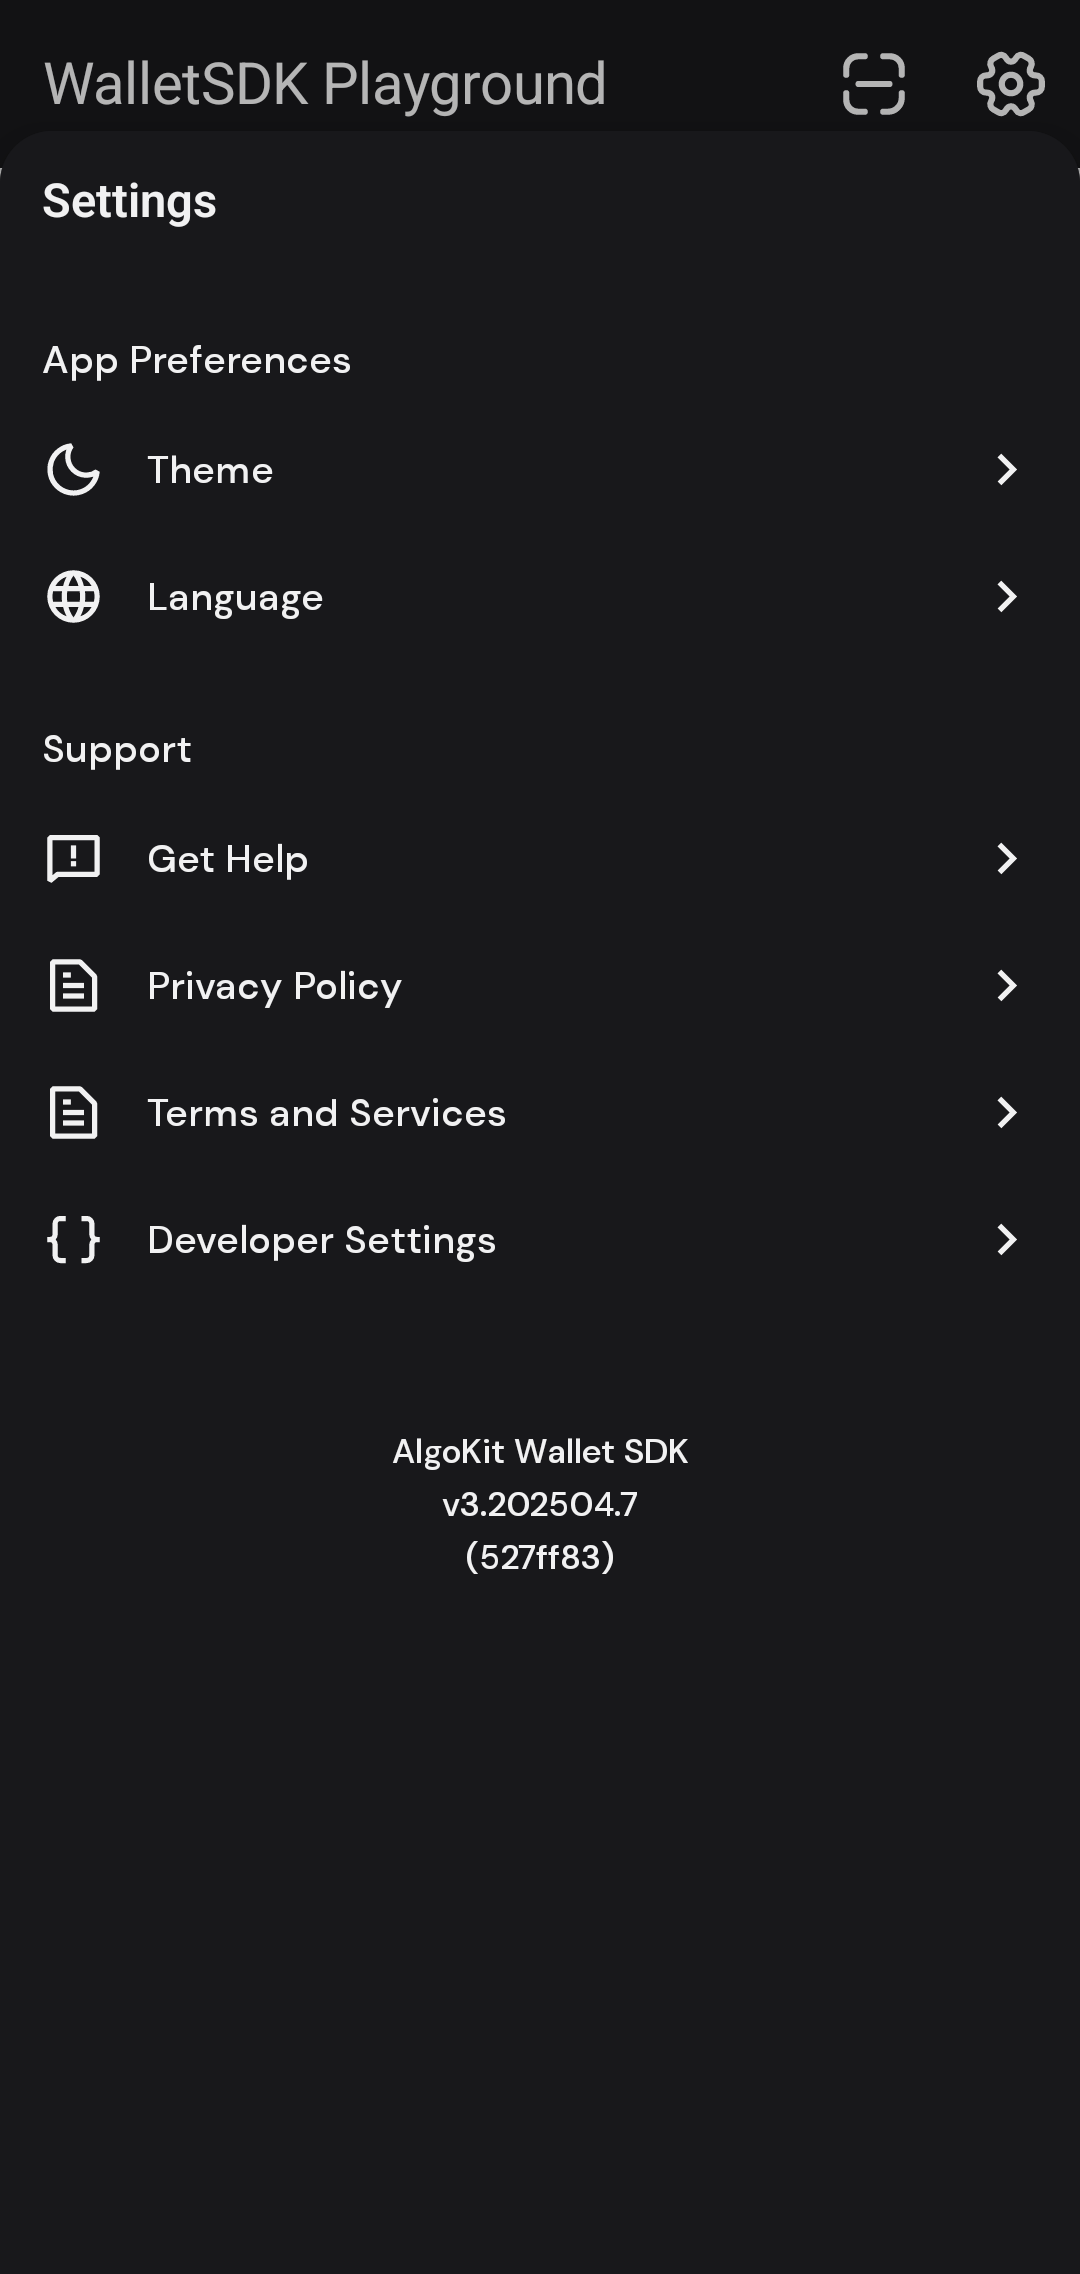
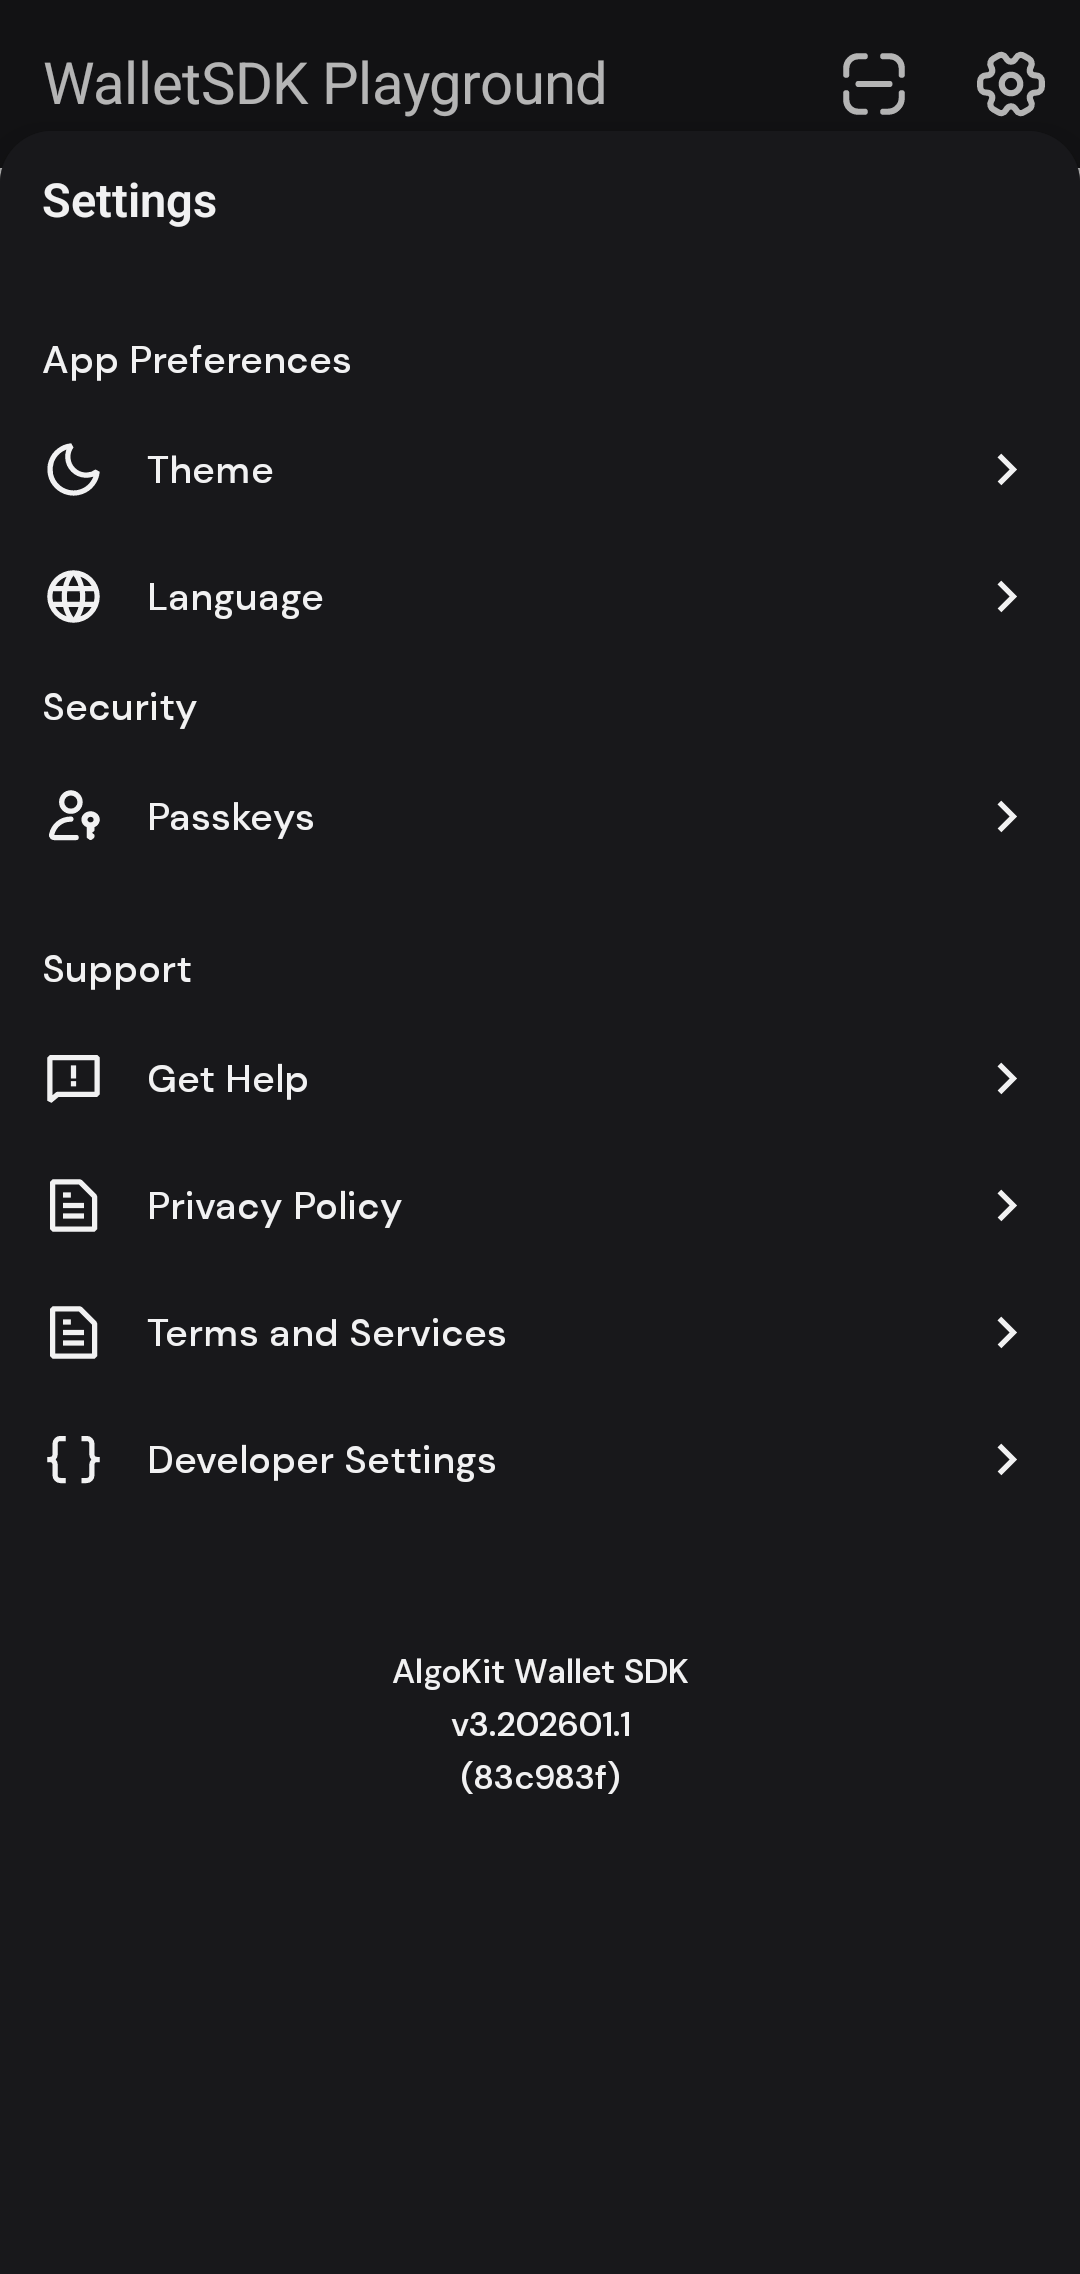
tests: add in passkey & liquid auth screenshots

diff --git a/docs/screenshots/index.html b/docs/screenshots/index.html
@@ -772,6 +772,12 @@
         "com.michaeltchuang.walletsdk.ui.settings.screens.NodeSettingsScreenshotTest_hi_light_testContent.png",
         "com.michaeltchuang.walletsdk.ui.settings.screens.NodeSettingsScreenshotTest_it_dark_testContent.png",
         "com.michaeltchuang.walletsdk.ui.settings.screens.NodeSettingsScreenshotTest_it_light_testContent.png",
+        "com.michaeltchuang.walletsdk.ui.settings.screens.PasskeysScreenshotTest_en_dark_testContent.png",
+        "com.michaeltchuang.walletsdk.ui.settings.screens.PasskeysScreenshotTest_en_light_testContent.png",
+        "com.michaeltchuang.walletsdk.ui.settings.screens.PasskeysScreenshotTest_hi_dark_testContent.png",
+        "com.michaeltchuang.walletsdk.ui.settings.screens.PasskeysScreenshotTest_hi_light_testContent.png",
+        "com.michaeltchuang.walletsdk.ui.settings.screens.PasskeysScreenshotTest_it_dark_testContent.png",
+        "com.michaeltchuang.walletsdk.ui.settings.screens.PasskeysScreenshotTest_it_light_testContent.png",
         "com.michaeltchuang.walletsdk.ui.settings.screens.SettingsScreenshotTest_en_dark_testContent.png",
         "com.michaeltchuang.walletsdk.ui.settings.screens.SettingsScreenshotTest_en_light_testContent.png",
         "com.michaeltchuang.walletsdk.ui.settings.screens.SettingsScreenshotTest_hi_dark_testContent.png",
@@ -825,7 +831,25 @@
         "com.michaeltchuang.walletsdk.ui.signing.screens.TransactionSuccessScreenshotTest_hi_dark_testContent.png",
         "com.michaeltchuang.walletsdk.ui.signing.screens.TransactionSuccessScreenshotTest_hi_light_testContent.png",
         "com.michaeltchuang.walletsdk.ui.signing.screens.TransactionSuccessScreenshotTest_it_dark_testContent.png",
-        "com.michaeltchuang.walletsdk.ui.signing.screens.TransactionSuccessScreenshotTest_it_light_testContent.png"
+        "com.michaeltchuang.walletsdk.ui.signing.screens.TransactionSuccessScreenshotTest_it_light_testContent.png",
+        "com.michaeltchuang.walletsdk.ui.liquidAuth.screens.AnswerScreenshotTest_en_dark_testContent.png",
+        "com.michaeltchuang.walletsdk.ui.liquidAuth.screens.AnswerScreenshotTest_en_light_testContent.png",
+        "com.michaeltchuang.walletsdk.ui.liquidAuth.screens.AnswerScreenshotTest_hi_dark_testContent.png",
+        "com.michaeltchuang.walletsdk.ui.liquidAuth.screens.AnswerScreenshotTest_hi_light_testContent.png",
+        "com.michaeltchuang.walletsdk.ui.liquidAuth.screens.AnswerScreenshotTest_it_dark_testContent.png",
+        "com.michaeltchuang.walletsdk.ui.liquidAuth.screens.AnswerScreenshotTest_it_light_testContent.png",
+        "com.michaeltchuang.walletsdk.ui.liquidAuth.screens.ConfirmTransactionScreenshotTest_en_dark_testContent.png",
+        "com.michaeltchuang.walletsdk.ui.liquidAuth.screens.ConfirmTransactionScreenshotTest_en_light_testContent.png",
+        "com.michaeltchuang.walletsdk.ui.liquidAuth.screens.ConfirmTransactionScreenshotTest_hi_dark_testContent.png",
+        "com.michaeltchuang.walletsdk.ui.liquidAuth.screens.ConfirmTransactionScreenshotTest_hi_light_testContent.png",
+        "com.michaeltchuang.walletsdk.ui.liquidAuth.screens.ConfirmTransactionScreenshotTest_it_dark_testContent.png",
+        "com.michaeltchuang.walletsdk.ui.liquidAuth.screens.ConfirmTransactionScreenshotTest_it_light_testContent.png",
+        "com.michaeltchuang.walletsdk.ui.liquidAuth.screens.LiquidAuthScreenshotTest_en_dark_testContent.png",
+        "com.michaeltchuang.walletsdk.ui.liquidAuth.screens.LiquidAuthScreenshotTest_en_light_testContent.png",
+        "com.michaeltchuang.walletsdk.ui.liquidAuth.screens.LiquidAuthScreenshotTest_hi_dark_testContent.png",
+        "com.michaeltchuang.walletsdk.ui.liquidAuth.screens.LiquidAuthScreenshotTest_hi_light_testContent.png",
+        "com.michaeltchuang.walletsdk.ui.liquidAuth.screens.LiquidAuthScreenshotTest_it_dark_testContent.png",
+        "com.michaeltchuang.walletsdk.ui.liquidAuth.screens.LiquidAuthScreenshotTest_it_light_testContent.png"
     ];
 
     // Parse screenshot data
@@ -937,6 +961,13 @@
                 ]
             },
             {
+                "name": "View PassKeys",
+                "steps": [
+                    "SettingsScreenshotTest_testContent",
+                    "PasskeysScreenshotTest_testContent"
+                ]
+            },
+            {
                 "name": "Create Non Post-Quantum Algo25 Flow",
                 "steps": [
                     "SettingsScreenshotTest_testContent",
@@ -981,7 +1012,16 @@
                     "AssetTransferConfirmScreenshotTest_testContent",
                     "TransactionSuccessScreenshotTest_testContent"
                 ]
-            }
+            },
+            {
+                "name": "Liquid Auth Flow",
+                "steps": [
+                    "QRScannerScreenshotTest_testContent",
+                    "LiquidAuthScreenshotTest_testContent",
+                    "AnswerScreenshotTest_testContent",
+                    "ConfirmTransactionScreenshotTest_testContent"
+                ]
+            },
         ]
     };
 

diff --git a/wallet-sdk-ui/src/androidInstrumentedTest/kotlin/com/michaeltchuang/walletsdk/ui/liquidAuth/screens/ConfirmTransactionScreenshotTest.kt b/wallet-sdk-ui/src/androidInstrumentedTest/kotlin/com/michaeltchuang/walletsdk/ui/liquidAuth/screens/ConfirmTransactionScreenshotTest.kt
@@ -4,7 +4,7 @@ import com.michaeltchuang.walletsdk.ui.base.test.BaseScreenshotTest
 import org.junit.Test
 import java.util.Locale
 
-class ConfirmTransactionScreenScreenshotTest(
+class ConfirmTransactionScreenshotTest(
     locale: Locale,
     darkTheme: Boolean,
 ) : BaseScreenshotTest(locale, darkTheme) {

diff --git a/wallet-sdk-ui/src/androidInstrumentedTest/kotlin/com/michaeltchuang/walletsdk/ui/liquidAuth/screens/LiquidAuthScreenshotTest.kt b/wallet-sdk-ui/src/androidInstrumentedTest/kotlin/com/michaeltchuang/walletsdk/ui/liquidAuth/screens/LiquidAuthScreenshotTest.kt
@@ -7,7 +7,7 @@ import com.michaeltchuang.walletsdk.ui.liquidAuth.viewmodels.LiquidAuthViewModel
 import org.junit.Test
 import java.util.Locale
 
-class LiquidAuthScreenScreenshotTest(
+class LiquidAuthScreenshotTest(
     locale: Locale,
     darkTheme: Boolean,
 ) : BaseScreenshotTest(locale, darkTheme) {

diff --git a/wallet-sdk-ui/src/androidInstrumentedTest/kotlin/com/michaeltchuang/walletsdk/ui/settings/screens/PasskeysScreenshotTest.kt b/wallet-sdk-ui/src/androidInstrumentedTest/kotlin/com/michaeltchuang/walletsdk/ui/settings/screens/PasskeysScreenshotTest.kt
@@ -5,7 +5,7 @@ import com.michaeltchuang.walletsdk.ui.settings.viewmodels.PasskeysViewModel
 import org.junit.Test
 import java.util.Locale
 
-class PasskeysScreenScreenshotTest(
+class PasskeysScreenshotTest(
     locale: Locale,
     darkTheme: Boolean,
 ) : BaseScreenshotTest(locale, darkTheme) {

diff --git a/wallet-sdk-ui/src/androidInstrumentedTest/kotlin/com/michaeltchuang/walletsdk/ui/liquidAuth/screens/AnswerScreenshotTest.kt b/wallet-sdk-ui/src/androidInstrumentedTest/kotlin/com/michaeltchuang/walletsdk/ui/liquidAuth/screens/AnswerScreenshotTest.kt
@@ -4,7 +4,7 @@ import com.michaeltchuang.walletsdk.ui.base.test.BaseScreenshotTest
 import org.junit.Test
 import java.util.Locale
 
-class AnswerScreenScreenshotTest(
+class AnswerScreenshotTest(
     locale: Locale,
     darkTheme: Boolean,
 ) : BaseScreenshotTest(locale, darkTheme) {

diff --git a/README.md b/README.md
@@ -10,8 +10,8 @@ This mobile utils library project provides common wallet UI components and scree
 Add the following to your `build.gradle.kts`:
 ```kotlin
 dependencies {
-    implementation("com.michaeltchuang.algokit.walletsdk:wallet-sdk-ui:3.202601.0")
-    implementation("com.michaeltchuang.algokit.walletsdk:wallet-sdk-core:3.202601.0")
+    implementation("com.michaeltchuang.algokit.walletsdk:wallet-sdk-ui:3.202601.1")
+    implementation("com.michaeltchuang.algokit.walletsdk:wallet-sdk-core:3.202601.1")
 }
 ```
 
